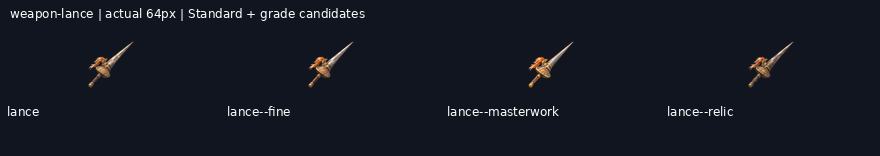
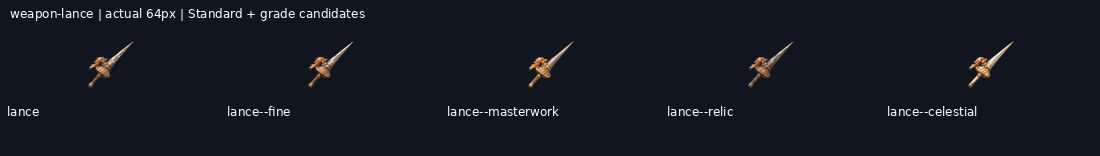
art: draw weapon-lance--celestial grade candidate

diff --git a/art/_archive/gear/2026-11-19-kept-blade-grades/HANDOFF.md b/art/_archive/gear/2026-11-19-kept-blade-grades/HANDOFF.md
@@ -1,9 +1,9 @@
 # Kept-blade grade candidates
 
-**20/32 grade candidates delivered** on `art/2026-11-19-kept-blade-grades`. Shared mailbox: https://github.com/leonpentastorm/Project-Heaven-Cry/issues/3 . See claim.json for this lane’s current Standards. Released overlapping blades reuse12 peer candidates, with3 local alternatives archived.
+**21/32 grade candidates delivered** on `art/2026-11-19-kept-blade-grades`. Shared mailbox: https://github.com/leonpentastorm/Project-Heaven-Cry/issues/3 . See claim.json for this lane’s current Standards. Released overlapping blades reuse12 peer candidates, with3 local alternatives archived.
 
 Leon requested continuous candidate production; proof approval is not fabricated. All candidates remain review-candidate, production_approved:false, implementation_ready:false, with outline.review_required:true. Exact outline is measured, never asserted unless the masks match. Per-image registration is uniform scaling/translation only, without warp, silhouette masks, filled pixels or code-drawn substitutes. The generated native remains untouched.
 
 Each image is generated, shown, technically exported, validated, committed and pushed before the next. Sources, versioned masters, exact prompts/reference hashes,256/128/64/32 exports and grade comparison sheets are retained. Standards and earlier deliveries are unchanged. This sparse checkout cannot validate omitted historical files; full-library validation/build is an integration check on a full checkout.
 
-Remaining: weapon-ork_machete--masterwork, weapon-ork_machete--relic, weapon-ork_machete--celestial, weapon-war_axe--fine, weapon-war_axe--masterwork, weapon-war_axe--relic, weapon-war_axe--celestial, weapon-lance--celestial, weapon-maul--fine, weapon-maul--masterwork, weapon-maul--relic, weapon-maul--celestial.
+Remaining: weapon-ork_machete--masterwork, weapon-ork_machete--relic, weapon-ork_machete--celestial, weapon-war_axe--fine, weapon-war_axe--masterwork, weapon-war_axe--relic, weapon-war_axe--celestial, weapon-maul--fine, weapon-maul--masterwork, weapon-maul--relic, weapon-maul--celestial.
